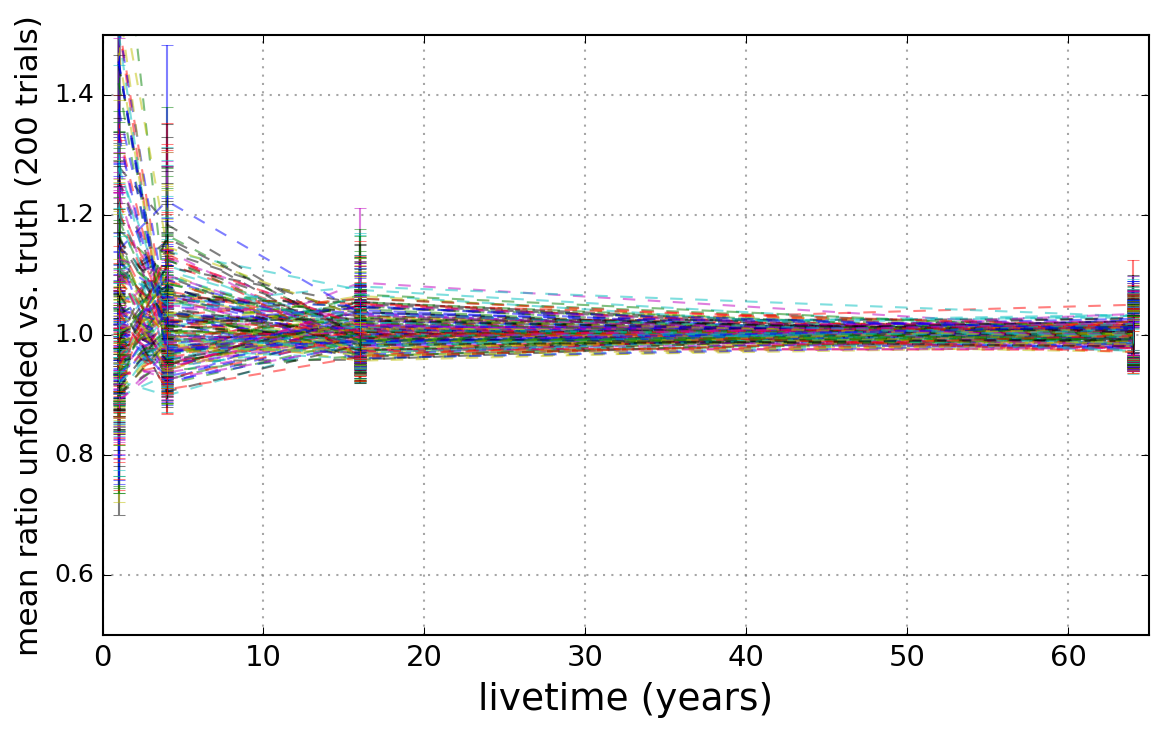
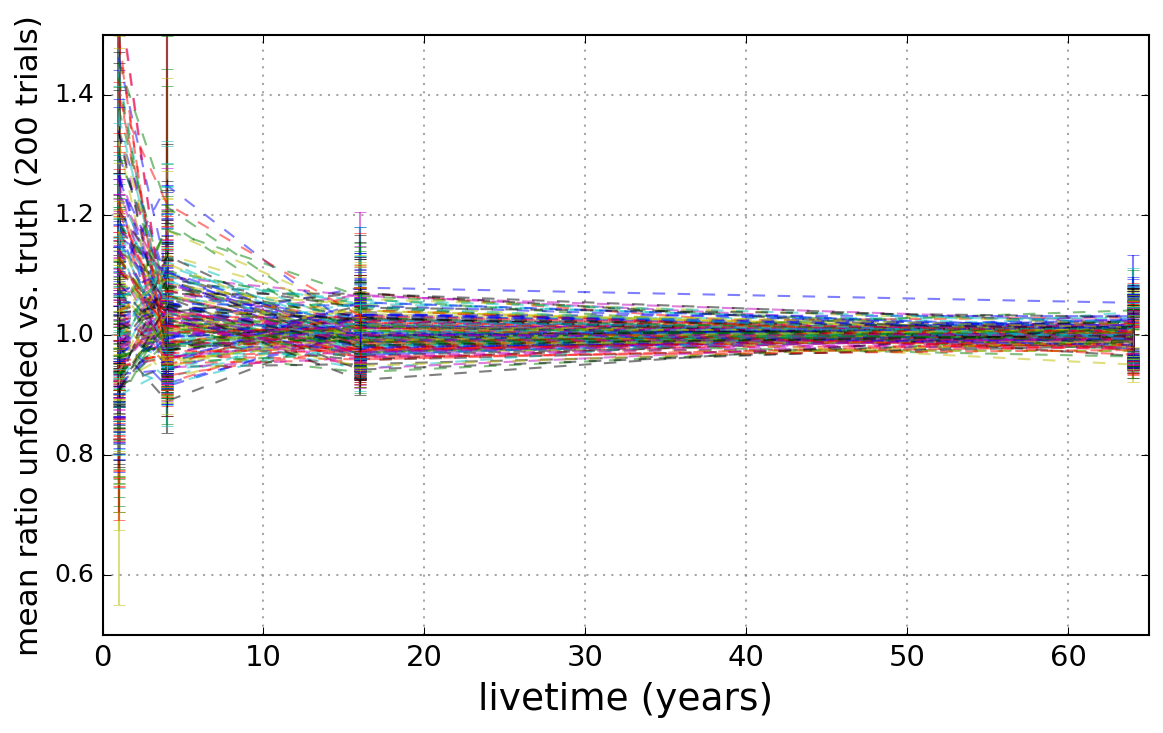
Sat Dec 17 06:22:00 GMT 2016

Changed region(s): [[0.0929, 0.06, 0.9905, 0.7203]]

diff --git a/livetime.py b/livetime.py
@@ -45,8 +45,8 @@ if __name__ == '__main__':
         template_maker.update_params(re_param)
         template_maker.update_params(sf_param)
         fe = []
-        for x in xrange(200):
-        # for x in xrange(5):
+        # for x in xrange(200):
+        for x in xrange(5):
             temp_out = template_maker.get_outputs(return_sum=False)[0].pop()
             nan_mask = nom_out.hist < 0.0001
             div = temp_out.hist[~nan_mask] / nom_out.hist[~nan_mask]
@@ -72,7 +72,7 @@ if __name__ == '__main__':
     fig = plt.figure(figsize=(9, 5))
     ax = fig.add_subplot(111)
     ax.set_xlim(np.min(binning)-1, np.max(binning)+1)
-    ax.set_ylim(0.5, 1.5)
+    ax.set_ylim(0.9, 1.1)
     ax.tick_params(axis='x', labelsize=14)
     ax.tick_params(axis='y', labelsize=12)
 
@@ -94,4 +94,4 @@ if __name__ == '__main__':
             yerr=unp.std_devs(f), capsize=3, alpha=0.5, linestyle='--',
             markersize=2, linewidth=1
         )
-    fig.savefig('./images/livetime_2_unfold_bg.png', bbox_inches='tight', dpi=150)
+    fig.savefig('./images/test.png', bbox_inches='tight', dpi=150)
